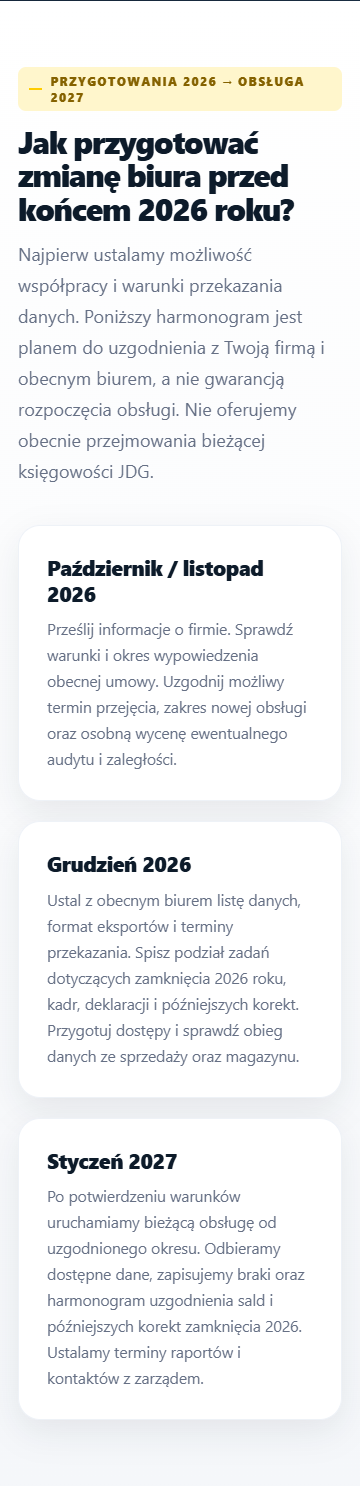
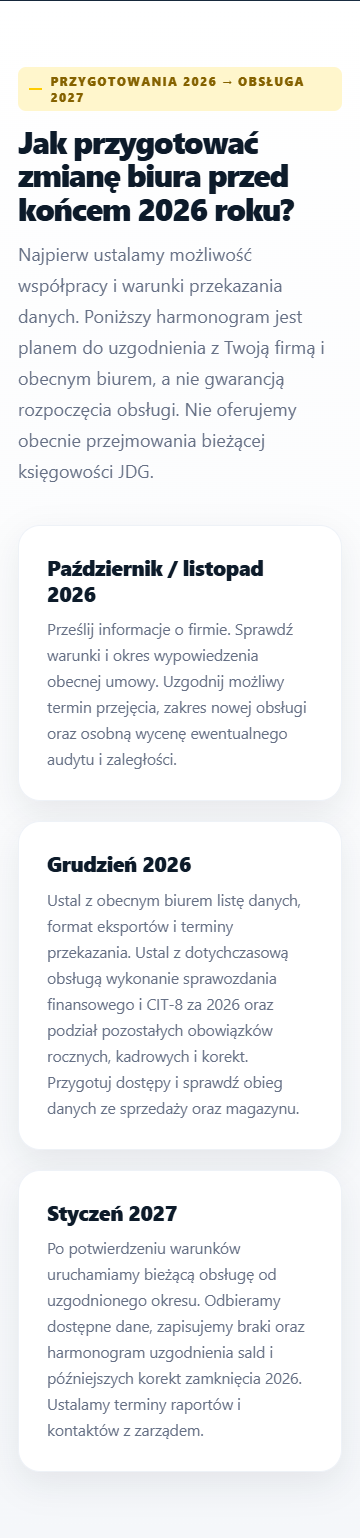
Exclude 2026 annual filings and retain release QA evidence

Changed region(s): [[0.0306, 0.0309, 0.9167, 0.5259], [0.1222, 0.5568, 0.825, 0.7424], [0.1222, 0.7734, 0.8556, 0.959]]

diff --git a/zmiana-biura-rachunkowego.html b/zmiana-biura-rachunkowego.html
@@ -36,7 +36,7 @@
   </script>
 
   <title>Zmiana biura rachunkowego od stycznia 2027 | Pełne księgi</title>
-  <meta name="description" content="Zmiana biura rachunkowego dla spółek i pełnych ksiąg od stycznia 2027. Zaplanuj przekazanie danych i zamknięcie 2026. Termin i zakres ustalamy indywidualnie." />
+  <meta name="description" content="Przejęcie pełnej księgowości od stycznia 2027. Ustal przekazanie danych i termin współpracy. Sprawozdanie i CIT-8 za 2026 uzgodnij z dotychczasową obsługą." />
   <link rel="canonical" href="https://pracowniarachunkowosci.pl/zmiana-biura-rachunkowego.html" />
   <meta name="robots" content="index,follow,max-image-preview:large" />
   <meta name="author" content="Pracownia Rachunkowości" />
@@ -44,7 +44,7 @@
   <meta property="og:type" content="website" />
   <meta property="og:locale" content="pl_PL" />
   <meta property="og:title" content="Zmiana biura rachunkowego od stycznia 2027 | Pełne księgi" />
-  <meta property="og:description" content="Zmiana biura rachunkowego dla spółek i pełnych ksiąg od stycznia 2027. Zaplanuj przekazanie danych i zamknięcie 2026. Termin i zakres ustalamy indywidualnie." />
+  <meta property="og:description" content="Przejęcie pełnej księgowości od stycznia 2027. Ustal przekazanie danych i termin współpracy. Sprawozdanie i CIT-8 za 2026 uzgodnij z dotychczasową obsługą." />
   <meta property="og:url" content="https://pracowniarachunkowosci.pl/zmiana-biura-rachunkowego.html" />
   <meta property="og:site_name" content="Pracownia Rachunkowości" />
   <meta property="og:image" content="https://pracowniarachunkowosci.pl/assets/og-image.jpg" />
@@ -889,7 +889,7 @@
   "@type": "Service",
   "name": "Zmiana biura rachunkowego dla spółki z o.o.",
   "serviceType": "Zmiana biura rachunkowego",
-  "description": "Zmiana biura rachunkowego dla spółek i pełnych ksiąg od stycznia 2027. Zaplanuj przekazanie danych i zamknięcie 2026. Termin i zakres ustalamy indywidualnie.",
+  "description": "Przejęcie pełnej księgowości od stycznia 2027. Ustal przekazanie danych i termin współpracy. Sprawozdanie i CIT-8 za 2026 uzgodnij z dotychczasową obsługą.",
   "url": "https://pracowniarachunkowosci.pl/zmiana-biura-rachunkowego.html",
   "provider": {
     "@type": "AccountingService",
@@ -992,7 +992,7 @@
       "name": "Kto zamyka 2026 rok i przygotowuje sprawozdanie oraz CIT-8?",
       "acceptedAnswer": {
         "@type": "Answer",
-        "text": "Przed przejęciem zapisujemy, kto wykona poszczególne obowiązki za 2026 rok i w jakich terminach. Obsługa od 2027 nie obejmuje automatycznie sporządzenia ani podpisania sprawozdania finansowego, przygotowania i złożenia CIT-8 ani innych rocznych obowiązków. Ewentualne zlecenie ich Pracowni wymaga osobnego ustalenia zakresu i wyceny."
+        "text": "W ramach przejęcia księgowości od stycznia 2027 Pracownia nie podejmuje się sporządzenia ani podpisania sprawozdania finansowego ani przygotowania CIT-8 za 2026 rok. Spółka musi ustalić wykonanie tych obowiązków z dotychczasową obsługą, wraz z terminami i podziałem odpowiedzialności. Odrębnie płatne pozostają audyt, weryfikacja ksiąg i korekty; nie obejmują one przejęcia wskazanych obowiązków rocznych."
       }
     },
     {
@@ -1101,7 +1101,7 @@
         </div>
         <div class="grid grid--3">
           <article class="card"><h3>Październik / listopad 2026</h3><p>Prześlij informacje o firmie. Sprawdź warunki i okres wypowiedzenia obecnej umowy. Uzgodnij możliwy termin przejęcia, zakres nowej obsługi oraz osobną wycenę ewentualnego audytu i zaległości.</p></article>
-          <article class="card"><h3>Grudzień 2026</h3><p>Ustal z obecnym biurem listę danych, format eksportów i terminy przekazania. Spisz podział zadań dotyczących zamknięcia 2026 roku, kadr, deklaracji i późniejszych korekt. Przygotuj dostępy i sprawdź obieg danych ze sprzedaży oraz magazynu.</p></article>
+          <article class="card"><h3>Grudzień 2026</h3><p>Ustal z obecnym biurem listę danych, format eksportów i terminy przekazania. Ustal z dotychczasową obsługą wykonanie sprawozdania finansowego i CIT-8 za 2026 oraz podział pozostałych obowiązków rocznych, kadrowych i korekt. Przygotuj dostępy i sprawdź obieg danych ze sprzedaży oraz magazynu.</p></article>
           <article class="card"><h3>Styczeń 2027</h3><p>Po potwierdzeniu warunków uruchamiamy bieżącą obsługę od uzgodnionego okresu. Odbieramy dostępne dane, zapisujemy braki oraz harmonogram uzgodnienia sald i późniejszych korekt zamknięcia 2026. Ustalamy terminy raportów i kontaktów z zarządem.</p></article>
         </div>
       </div>
@@ -1127,10 +1127,10 @@
 
     <section class="section section--soft" id="zamkniecie-2026" aria-labelledby="zamkniecie-title">
       <div class="container">
-        <div class="head"><span class="eyebrow">Jasny podział obowiązków</span><h2 id="zamkniecie-title">Obsługa od 2027 a zamknięcie 2026 roku</h2><p>Rozpoczęcie bieżącej księgowości od stycznia 2027 nie oznacza automatycznego przejęcia obowiązków za poprzedni rok.</p></div>
+        <div class="head"><span class="eyebrow">Jasny podział obowiązków</span><h2 id="zamkniecie-title">Obsługa od 2027 a zamknięcie 2026 roku</h2><p>Przejęcie bieżącej księgowości od stycznia 2027 nie obejmuje sporządzenia ani podpisania sprawozdania finansowego ani przygotowania CIT-8 za 2026 rok przez Pracownię.</p></div>
         <div class="grid grid--3">
           <article class="card"><h3>Bieżąca obsługa od 2027</h3><p>Uzgadniamy pierwszy obsługiwany okres, obieg dokumentów, podatki, rozrachunki, kadry i raportowanie. Zakres zapisujemy w umowie.</p></article>
-          <article class="card"><h3>Zamknięcie roku 2026</h3><p>Osobno ustalamy, kto przygotuje i podpisze sprawozdanie finansowe, kto przygotuje i złoży CIT-8 oraz wykona inne obowiązki roczne, jeśli dotyczą firmy. Nowa umowa nie oznacza automatycznego wykonania tych zadań przez Pracownię. Ustalenia obejmują też terminy przekazania końcowych sald i korekt.</p></article>
+          <article class="card"><h3>Zamknięcie roku 2026</h3><p>W ramach przejęcia księgowości od stycznia 2027 Pracownia nie podejmuje się sporządzenia ani podpisania sprawozdania finansowego ani przygotowania CIT-8 za 2026 rok. Spółka musi ustalić wykonanie tych obowiązków z dotychczasową obsługą, wraz z terminami i podziałem odpowiedzialności. Ustalenia z dotychczasową obsługą powinny obejmować także pozostałe obowiązki roczne oraz terminy przekazania końcowych sald i korekt.</p></article>
           <article class="card"><h3>Audyt i zaległości</h3><p>Audyt startowy, weryfikacja historycznych ksiąg i poprawianie zaległości to odrębnie wyceniane usługi. Ich zakres i harmonogram wymagają uzgodnienia; nie są automatycznym bezpłatnym elementem nowej umowy.</p></article>
         </div>
       </div>
@@ -1275,7 +1275,7 @@
           <details><summary>Kiedy wypowiedzieć umowę obecnemu biuru?</summary><p>Sprawdź okres, formę i warunki wypowiedzenia w swojej umowie oraz uzgodnij datę zakończenia obsługi. Nie ma jednego terminu odpowiedniego dla każdej umowy. Zanim zaplanujesz zmianę, potwierdź z nowym biurem możliwość rozpoczęcia współpracy i podział obowiązków.</p></details>
           <details><summary>Jak przekazać księgi i dokumenty?</summary><p>Uzgodnij listę oraz format eksportów: księgi, plan kont, rejestry, deklaracje, JPK i UPO, środki trwałe, umowy i dokumenty źródłowe. W protokole przekazania zapisz daty, zakres otrzymanych danych i braki. Dostępy i upoważnienia ustalamy osobno, bez przekazywania cudzych haseł.</p></details>
           <details><summary>Jakie salda, rozrachunki i raporty są potrzebne?</summary><p>Przygotuj zestawienie obrotów i sald, należności i zobowiązań, rozliczenia banków, podatków, pożyczek i wspólników na uzgodniony dzień. Wskaż pozycje nieuzgodnione i dostępne raporty zarządcze. Ustalamy, kiedy dotrą końcowe salda za 2026 oraz jak uwzględnić późniejsze korekty.</p></details>
-          <details><summary>Kto zamyka 2026 rok i przygotowuje sprawozdanie oraz CIT-8?</summary><p>Przed przejęciem zapisujemy, kto wykona poszczególne obowiązki za 2026 rok i w jakich terminach. Obsługa od 2027 nie obejmuje automatycznie sporządzenia ani podpisania sprawozdania finansowego, przygotowania i złożenia CIT-8 ani innych rocznych obowiązków. Ewentualne zlecenie ich Pracowni wymaga osobnego ustalenia zakresu i wyceny.</p></details>
+          <details><summary>Kto zamyka 2026 rok i przygotowuje sprawozdanie oraz CIT-8?</summary><p>W ramach przejęcia księgowości od stycznia 2027 Pracownia nie podejmuje się sporządzenia ani podpisania sprawozdania finansowego ani przygotowania CIT-8 za 2026 rok. Spółka musi ustalić wykonanie tych obowiązków z dotychczasową obsługą, wraz z terminami i podziałem odpowiedzialności. Odrębnie płatne pozostają audyt, weryfikacja ksiąg i korekty; nie obejmują one przejęcia wskazanych obowiązków rocznych.</p></details>
           <details><summary>Jak zapewnić ciągłość kadr i płac?</summary><p>Ustalamy ostatni okres rozliczany przez dotychczasowe biuro i pierwszy okres nowej obsługi. Lista przekazania obejmuje dokumentację pracowniczą, listy płac, zgłoszenia i rozliczenia ZUS, urlopy, ewidencje czasu pracy oraz otwarte sprawy. Zakres kadr i odpowiedzialność za roczne informacje pracownicze uzgadniamy osobno.</p></details>
           <details><summary>Czy audyt startowy i poprawa zaległości są w cenie przejęcia?</summary><p>Nie są automatycznym bezpłatnym elementem umowy. Audyt, weryfikacja historycznych ksiąg i poprawianie zaległości mają oddzielnie uzgadniany zakres, wycenę i termin. Wstępna analiza informacji o firmie służy ocenie możliwości współpracy, a nie potwierdzeniu poprawności wcześniejszych ksiąg.</p></details>
           <details><summary>Czy po zmianie otrzymamy raporty zarządcze i integrację z systemami?</summary><p>Możemy uzgodnić raportowanie zarządcze, controlling oraz integrację danych finansowych z systemami sprzedażowo-magazynowymi. Zakres zależy od pakietu, jakości danych i dodatkowych ustaleń. Dotyczy to szczególnie produkcji, hurtowni i e-commerce.</p></details>

diff --git a/index.html b/index.html
@@ -1460,7 +1460,7 @@
           "name": "Czy Pracownia Rachunkowości pomaga zmienić biuro rachunkowe?",
           "acceptedAnswer": {
             "@type": "Answer",
-            "text": "Tak. Nowe przejęcia pełnej księgowości planujemy od stycznia 2027, po indywidualnym potwierdzeniu terminu i zakresu. Ustalamy przekazanie dokumentów i nowy model współpracy. Audyt, weryfikację historycznych ksiąg i poprawianie zaległości wyceniamy osobno. Odpowiedzialność za zamknięcie 2026 roku wymaga oddzielnych ustaleń."
+            "text": "Tak. Nowe przejęcia pełnej księgowości planujemy od stycznia 2027, po indywidualnym potwierdzeniu terminu i zakresu. Ustalamy przekazanie dokumentów i nowy model współpracy. Audyt, weryfikację historycznych ksiąg i poprawianie zaległości wyceniamy osobno. Pracownia nie podejmuje się sporządzenia ani podpisania sprawozdania finansowego ani przygotowania CIT-8 za 2026. Spółka musi ustalić wykonanie tych obowiązków z dotychczasową obsługą."
           }
         },
         {
@@ -1919,7 +1919,7 @@
           <details open><summary>Czy Pracownia Rachunkowości to biuro rachunkowe dla spółek z o.o.?</summary><p>Tak. Pracownia Rachunkowości specjalizuje się w pełnej księgowości spółek z o.o., raportach zarządczych, controllingu, estońskim CIT, KSeF oraz obsłudze firm e-commerce i B2B.</p></details>
           <details><summary>Czy Pracownia Rachunkowości obsługuje spółki z całej Polski online?</summary><p>Tak. Obsługujemy spółki z całej Polski w modelu online. Siedziba biura znajduje się we Wrocławiu przy ul. Trawowej 19/1, dlatego możliwa jest również współpraca lokalna.</p></details>
           <details><summary>Czy Pracownia Rachunkowości przygotowuje raporty zarządcze i cash-flow?</summary><p>Tak. Przy obsłudze spółek z o.o. możemy przygotowywać miesięczne raporty KPI, cash-flow, zestawienia należności i zobowiązań, analizę kosztów oraz dane potrzebne zarządowi do decyzji.</p></details>
-          <details><summary>Czy Pracownia Rachunkowości pomaga zmienić biuro rachunkowe?</summary><p>Tak. Nowe przejęcia pełnej księgowości planujemy od stycznia 2027, po indywidualnym potwierdzeniu terminu i zakresu. Ustalamy przekazanie dokumentów i nowy model współpracy. Audyt, weryfikację historycznych ksiąg i poprawianie zaległości wyceniamy osobno. Odpowiedzialność za zamknięcie 2026 roku wymaga oddzielnych ustaleń.</p></details>
+          <details><summary>Czy Pracownia Rachunkowości pomaga zmienić biuro rachunkowe?</summary><p>Tak. Nowe przejęcia pełnej księgowości planujemy od stycznia 2027, po indywidualnym potwierdzeniu terminu i zakresu. Ustalamy przekazanie dokumentów i nowy model współpracy. Audyt, weryfikację historycznych ksiąg i poprawianie zaległości wyceniamy osobno. Pracownia nie podejmuje się sporządzenia ani podpisania sprawozdania finansowego ani przygotowania CIT-8 za 2026. Spółka musi ustalić wykonanie tych obowiązków z dotychczasową obsługą.</p></details>
           <details><summary>Czy obsługujecie estoński CIT, KSeF, VAT-OSS i sprzedaż zagraniczną?</summary><p>Tak. Wspieramy spółki w estońskim CIT, przygotowaniu do KSeF, VAT-OSS, marketplace, Amazon FBA, sprzedaży zagranicznej, prowizjach, zwrotach i raportowaniu rentowności.</p></details>
         </div>
       </div>

diff --git a/zmiana-biura-rachunkowego-spolka-z-oo.html b/zmiana-biura-rachunkowego-spolka-z-oo.html
@@ -221,7 +221,7 @@
           "name": "Czy Pracownia Rachunkowości pomaga przejąć księgowość po poprzednim biurze?",
           "acceptedAnswer": {
             "@type": "Answer",
-            "text": "Tak. Nowe przejęcia pełnej księgowości planujemy od stycznia 2027, po potwierdzeniu terminu i zakresu. Audyt i poprawianie zaległości wyceniamy osobno, a odpowiedzialność za zamknięcie 2026 ustalamy oddzielnie."
+            "text": "Tak. Nowe przejęcia pełnej księgowości planujemy od stycznia 2027, po potwierdzeniu terminu i zakresu. Audyt, weryfikację ksiąg i korekty wyceniamy osobno. Pracownia nie podejmuje się sporządzenia ani podpisania sprawozdania finansowego ani przygotowania CIT-8 za 2026. Spółka musi ustalić wykonanie tych obowiązków z dotychczasową obsługą."
           }
         },
         {
@@ -1302,7 +1302,7 @@
     </section>
     <section class="section section--soft" aria-labelledby="termin-przejecia-title">
       <div class="container">
-        <div class="head"><h2 id="termin-przejecia-title">Planujesz przejęcie pełnej księgowości od stycznia 2027?</h2><p>Termin i zakres potwierdzamy indywidualnie. Audyt, weryfikacja historycznych ksiąg i poprawianie zaległości to odrębnie wyceniane usługi. Obsługa od 2027 nie oznacza automatycznego sporządzenia ani podpisania sprawozdania finansowego, przygotowania CIT-8 ani wykonania innych obowiązków za 2026 rok — podział odpowiedzialności ustalamy osobno. Nie przejmujemy obecnie bieżącej księgowości JDG.</p><a class="btn btn--dark" href="/zmiana-biura-rachunkowego.html">Zobacz aktualne zasady i plan przejęcia</a></div>
+        <div class="head"><h2 id="termin-przejecia-title">Planujesz przejęcie pełnej księgowości od stycznia 2027?</h2><p>Termin i zakres potwierdzamy indywidualnie. Audyt, weryfikacja historycznych ksiąg i poprawianie zaległości to odrębnie wyceniane usługi. Pracownia nie podejmuje się sporządzenia ani podpisania sprawozdania finansowego ani przygotowania CIT-8 za 2026. Spółka musi ustalić wykonanie tych obowiązków z dotychczasową obsługą. Nie przejmujemy obecnie bieżącej księgowości JDG.</p><a class="btn btn--dark" href="/zmiana-biura-rachunkowego.html">Zobacz aktualne zasady i plan przejęcia</a></div>
       </div>
     </section>
 
@@ -1562,7 +1562,7 @@
         </details>
         <details>
           <summary>Czy Pracownia Rachunkowości pomaga przejąć księgowość po poprzednim biurze?</summary>
-          <p>Tak. Nowe przejęcia pełnej księgowości planujemy od stycznia 2027, po potwierdzeniu terminu i zakresu. Audyt i poprawianie zaległości wyceniamy osobno, a odpowiedzialność za zamknięcie 2026 ustalamy oddzielnie.</p>
+          <p>Tak. Nowe przejęcia pełnej księgowości planujemy od stycznia 2027, po potwierdzeniu terminu i zakresu. Audyt, weryfikację ksiąg i korekty wyceniamy osobno. Pracownia nie podejmuje się sporządzenia ani podpisania sprawozdania finansowego ani przygotowania CIT-8 za 2026. Spółka musi ustalić wykonanie tych obowiązków z dotychczasową obsługą.</p>
         </details>
         <details>
           <summary>Jakie dokumenty są potrzebne przy zmianie biura rachunkowego?</summary>

diff --git a/blog/zmiana-biura.html b/blog/zmiana-biura.html
@@ -937,7 +937,7 @@
         <p>Przy zmianie od stycznia rozdziel dwa zadania: prowadzenie nowego roku oraz dokończenie rozliczeń poprzedniego. Nie zakładaj, że wszystkie dane za grudzień będą ostateczne w pierwszym dniu stycznia.</p>
         <ol>
           <li><strong>Sprawdź umowę z obecnym biurem.</strong> Ustal okres i sposób wypowiedzenia, ostatni obsługiwany miesiąc oraz zasady odbioru danych. Termin zależy od konkretnej umowy.</li>
-          <li><strong>Zapisz podział obowiązków za 2026 rok.</strong> Określ, kto przygotuje i podpisze sprawozdanie finansowe, przygotuje i złoży CIT-8 oraz wykona pozostałe obowiązki roczne, jeśli dotyczą spółki. Sam start nowego biura od 2027 nie rozstrzyga tych zadań.</li>
+          <li><strong>Zapisz podział obowiązków za 2026 rok.</strong> W ramach przejęcia księgowości od stycznia 2027 Pracownia nie podejmuje się sporządzenia ani podpisania sprawozdania finansowego ani przygotowania CIT-8 za 2026 rok. Spółka musi ustalić wykonanie tych obowiązków z dotychczasową obsługą, wraz z terminami i podziałem odpowiedzialności. Uzgodnij też pozostałe obowiązki roczne, jeśli dotyczą spółki.</li>
           <li><strong>Ustal dwie daty przekazania danych.</strong> Pierwszą dla danych dostępnych na start, drugą dla końcowych sald po zamknięciu 2026. Spisz sposób przekazywania późniejszych korekt i listę nierozliczonych pozycji.</li>
           <li><strong>Oddziel bieżącą obsługę od prac historycznych.</strong> Audyt i poprawianie zaległości wymagają osobnego zakresu, wyceny i harmonogramu. Ustal też ciągłość kadr oraz format danych ze sprzedaży i magazynu.</li>
         </ol>

diff --git a/assets/js/contact-form.js b/assets/js/contact-form.js
@@ -37,7 +37,7 @@
       if (form.elements.subject) form.elements.subject.value = fromTransfer ? 'Zmiana biura rachunkowego od stycznia 2027 - nowe zapytanie' : 'Zewnętrzny dział finansowy - nowe zapytanie';
       var contact = document.querySelector('.hp-contact');
       if (contact) contact.classList.add(fromTransfer ? 'hp-contact--transfer' : 'hp-contact--zdf');
-      if (note) note.textContent = fromTransfer ? 'Zgłoszenie na pełną księgowość od stycznia 2027. Opisz spółkę, skalę operacji i stan ksiąg. Termin i zakres potwierdzamy indywidualnie; audyt oraz zamknięcie 2026 ustalamy osobno.' : 'Zapytanie o zewnętrzny dział finansowy. Pełna księgowość: zgłoszenia na start od stycznia 2027, z terminem potwierdzanym po ocenie dokumentów. Raportowanie, controlling i audyt możemy omówić osobno.';
+      if (note) note.textContent = fromTransfer ? 'Zgłoszenie na pełną księgowość od stycznia 2027. Opisz spółkę, skalę operacji i stan ksiąg. Termin i zakres potwierdzamy indywidualnie. Sprawozdanie i CIT-8 za 2026 spółka ustala z dotychczasową obsługą; Pracownia nie przejmuje tych zadań. Audyt, weryfikację ksiąg i korekty wyceniamy osobno.' : 'Zapytanie o zewnętrzny dział finansowy. Pełna księgowość: zgłoszenia na start od stycznia 2027, z terminem potwierdzanym po ocenie dokumentów. Raportowanie, controlling i audyt możemy omówić osobno.';
     }
     // Without these APIs the unchanged action/method still submit directly to Web3Forms.
     if (!window.fetch || !window.FormData || !window.AbortController) return;

diff --git a/ksiegowosc-spolka-z-oo.html b/ksiegowosc-spolka-z-oo.html
@@ -921,7 +921,7 @@
         <div class="sec__head">
           <div class="eyebrow">Jak pracujemy</div>
           <h2>Proces przejęcia księgowości bez nerwowych ruchów.</h2>
-          <p class="sub">Nowe przejęcia pełnej księgowości planujemy od stycznia 2027. Termin i zakres potwierdzamy indywidualnie. Audyt i porządkowanie zaległości wyceniamy osobno; zamknięcie 2026 wymaga oddzielnego ustalenia odpowiedzialności. <a href="/zmiana-biura-rachunkowego.html">Sprawdź, jak przygotować zmianę biura</a>.</p>
+          <p class="sub">Nowe przejęcia pełnej księgowości planujemy od stycznia 2027. Termin i zakres potwierdzamy indywidualnie. Audyt, weryfikację ksiąg i korekty wyceniamy osobno. Pracownia nie podejmuje się sporządzenia ani podpisania sprawozdania finansowego ani przygotowania CIT-8 za 2026. Spółka musi ustalić wykonanie tych obowiązków z dotychczasową obsługą. <a href="/zmiana-biura-rachunkowego.html">Sprawdź, jak przygotować zmianę biura</a>.</p>
         </div>
         <div class="proc-grid">
           <div class="proc-step"><div class="proc-num">01</div><h3>Krótka rozmowa</h3><p>Rozpoznajemy skalę spółki, problemy, liczbę dokumentów i oczekiwany poziom raportowania.</p><small>15–30 min online</small></div>

diff --git a/oferta.html b/oferta.html
@@ -1855,7 +1855,7 @@
               Zmiana biura rachunkowego
             </h3>
             <p>
-              Nowe przejęcia pełnej księgowości planujemy od stycznia 2027, po indywidualnym potwierdzeniu terminu i zakresu. Audyt i zaległości wyceniamy osobno; odpowiedzialność za zamknięcie 2026 wymaga oddzielnych ustaleń.
+              Nowe przejęcia pełnej księgowości planujemy od stycznia 2027, po indywidualnym potwierdzeniu terminu i zakresu. Audyt, weryfikację ksiąg i korekty wyceniamy osobno. Pracownia nie podejmuje się sporządzenia ani podpisania sprawozdania finansowego ani przygotowania CIT-8 za 2026. Spółka musi ustalić wykonanie tych obowiązków z dotychczasową obsługą.
             </p>
             <div class="card__actions">
               <a class="btn btn--outline" href="/zmiana-biura-rachunkowego.html">

diff --git a/docs/styczen-2027/README.md b/docs/styczen-2027/README.md
@@ -1,6 +1,18 @@
 # Przejęcia pełnej księgowości od stycznia 2027
 
-Stan na 24 października 2026. Gałąź `feat/styczen-2027-przejecia` powstała z pobranego `origin/main` (`9053790`). Zmiany są przeznaczone do jednego draft PR. Merge do `main` uruchamia publikację GitHub Pages i wymaga decyzji właściciela.
+Stan na 24 października 2026. Gałąź `feat/styczen-2027-przejecia` powstała z pobranego `origin/main` (`9053790`). PR #21 jest źródłem zmian, dokumentacji i QA do weryfikacji. Do publikacji przeznaczona jest osobna gałąź `release/styczen-2027-site-only`, utworzona z aktualnego `main` i zawierająca dokładnie 11 zmienionych plików produkcyjnych. Nie mergować całego PR #21. Merge PR produkcyjnego do `main` uruchamia publikację GitHub Pages i wymaga osobnej zgody właściciela.
+
+
+## Ostatnia korekta przed wydaniem — różnice względem PR #21
+
+Punkt odniesienia: pierwotny commit PR #21 `4cc6a83efc23732397190051d5fc5f2314563e34`.
+
+- Osiem plików produkcyjnych: `index.html`, oba landingi zmiany biura, `blog/zmiana-biura.html`, `oferta.html`, `ksiegowosc-spolka-z-oo.html`, `llms.txt` i `assets/js/contact-form.js`. Zmiany obejmują wyłącznie komunikaty o odpowiedzialności za 2026, metadane głównego landingu oraz odpowiadające im treści FAQ/JSON-LD.
+- Usunięto sugestię możliwości zlecenia Pracowni sprawozdania finansowego i CIT-8 za 2026 za dodatkową opłatą. Spółka musi ustalić wykonanie tych obowiązków z dotychczasową obsługą. Audyt, weryfikacja ksiąg i korekty pozostają odrębnie płatne.
+- Pozostałe trzy pliki produkcyjne z PR #21 (`sitemap.xml`, `zewnetrzny-dzial-finansowy.html`, artykuł o audycie) są bez zmian względem zatwierdzonej wersji. Daty `lastmod` nadal odpowiadają dacie wykonania korekt: 24 października 2026.
+- Potwierdzono identyczną strukturę HTML, CSS, H1, linki i canonicale oraz skrypty integracji względem pierwotnego PR #21. Wspólny JS formularza ma zmieniony tylko tekst informacji sezonowej; logika formularza i pomiaru jest identyczna.
+- Zaktualizowane podglądy i pełne wyniki regresji pozostają wyłącznie w gałęzi PR #21. Testy uruchomiono bezpośrednio na katalogu gałęzi release, a komplet 11 plików porównano bajt po bajcie z gałęzią źródłową. Sumy SHA-256 znajdują się w `release-verification.json`.
+- Przenoszenie UTM/GCLID między stronami oraz konfiguracja GA4/Ads nadal stanowią oddzielne zadanie. Bez produkcyjnych wysyłek formularza, merge i publikacji.
 
 ## Audyt architektury przed zmianami
 
@@ -28,7 +40,7 @@ Rekomendacja po takiej analizie: trwałe przekierowanie HTTP 301 z dłuższego a
 | Plik | Zmiana |
 | --- | --- |
 | `index.html` | Blok sezonowy bezpośrednio po istniejącym hero; CTA do głównej usługi; doprecyzowanie FAQ i zgodności JSON-LD; układ formularza sezonowego na mobile. H1, hero, nawigacja, karty usług, opinie i pakiety zachowane. |
-| `zmiana-biura-rachunkowego.html` | Start od stycznia 2027, harmonogram, dane do zgłoszenia, odrębne zamknięcie 2026 i wycena audytu, 9 pytań FAQ, link do poradnika, CTA do formularza sezonowego, metadane. |
+| `zmiana-biura-rachunkowego.html` | Start od stycznia 2027, harmonogram, dane do zgłoszenia, wyłączenie sprawozdania i CIT-8 za 2026 oraz osobna wycena audytu, 9 pytań FAQ, link do poradnika, CTA do formularza sezonowego, metadane. |
 | `assets/js/contact-form.js` | Dozwolony wariant `service=zmiana-biura-2027`, temat, subject, informacja i `inquiry_source`; dotychczasowe warianty zachowane. |
 | `blog/zmiana-biura.html` | Poradnik 2026/2027, podział obowiązków i dwa etapy przekazania danych, linki do usługi, data aktualizacji, FAQ schema; poprawiony kontrast podpisu „Autor”. |
 | `blog/audyt-ksiegowosci-przed-zmiana-biura.html` | Osobna wycena, link do głównej usługi, dateModified i zgodność FAQ. |
@@ -45,7 +57,7 @@ Rekomendacja po takiej analizie: trwałe przekierowanie HTTP 301 z dłuższego a
 | Home | Brak dedykowanego bloku sezonowego | „Planujesz zmianę biura rachunkowego od stycznia 2027?” → „Sprawdź możliwość współpracy od stycznia 2027”. |
 | Landing — początek | „Przejmujemy księgowość… Zaczynamy od audytu startowego” | Planowany start od stycznia, termin i zakres wymagają potwierdzenia; CTA „Opisz spółkę i planowany termin”. |
 | Landing — koniec | Konsultacja / ogólne zapytanie | Opis firmy i skali operacji do oceny możliwości współpracy; brak automatycznej akceptacji. |
-| Audyt i zamknięcie roku | Brak wyraźnego rozdzielenia od nowej obsługi | Audyt i zaległości odrębnie wyceniane; sprawozdanie, CIT-8 i inne zadania za 2026 wymagają osobnych ustaleń. |
+| Audyt i zamknięcie roku | Brak wyraźnego rozdzielenia od nowej obsługi | Audyt, weryfikacja ksiąg i korekty odrębnie wyceniane. Pracownia nie podejmuje się sporządzenia/podpisania sprawozdania ani przygotowania CIT-8 za 2026; spółka ustala wykonanie tych obowiązków z dotychczasową obsługą. |
 | Formularz | Domyślny home albo ZDF | Dodatkowy wariant sezonowy z `inquiry_source=zmiana-biura-2027`. |
 
 ## Podgląd i testy
@@ -66,12 +78,14 @@ Testy w `qa.cjs` przechwytują **wszystkie** żądania. Dokumenty i zasoby lokal
 
 **Wynik końcowy: 24/24 widoki i 17/17 scenariuszy funkcjonalnych — PASS. Brak niepoprawnych linków, rozbieżności FAQ, poziomego przewijania, błędów JS oraz naruszeń wykrytych przez axe.**
 
-Szczegółowe dowody: [qa-results.json](qa-results.json), [invariants.json](invariants.json). Testy wykonano z lokalnie dostępnymi Playwright 1.64.0 i axe 4.13.0, z kanałem Chrome. Zewnętrzne fonty/skrypty są blokowane, więc zrzuty używają dostępnych fontów zastępczych. Nie weryfikowano doręczenia e-maila przez produkcyjny Web3Forms, działania usług zewnętrznych ani konfiguracji kont analitycznych.
+Szczegółowe dowody: [weryfikacja czystego wydania i różnic względem pierwotnego PR #21](release-verification.json), [qa-results.json](qa-results.json), [invariants.json](invariants.json). Testy wykonano z lokalnie dostępnymi Playwright 1.64.0 i axe 4.13.0, z kanałem Chrome. Zewnętrzne fonty/skrypty są blokowane, więc zrzuty używają dostępnych fontów zastępczych. Nie weryfikowano doręczenia e-maila przez produkcyjny Web3Forms, działania usług zewnętrznych ani konfiguracji kont analitycznych.
 
 Uruchomienie na Windows (PowerShell), po udostępnieniu zależności testowych:
 
 ```powershell
 $env:NODE_PATH = 'ścieżka-do-testowych-node_modules'
+# Opcjonalnie: katalog gałęzi release; wyniki nadal zapiszą się przy dokumentacji PR #21.
+$env:JANUARY_SITE_ROOT = 'ścieżka-do-pracownia-styczen-2027-release'
 node docs/styczen-2027/qa.cjs
 node --check assets/js/contact-form.js
 git diff --check
